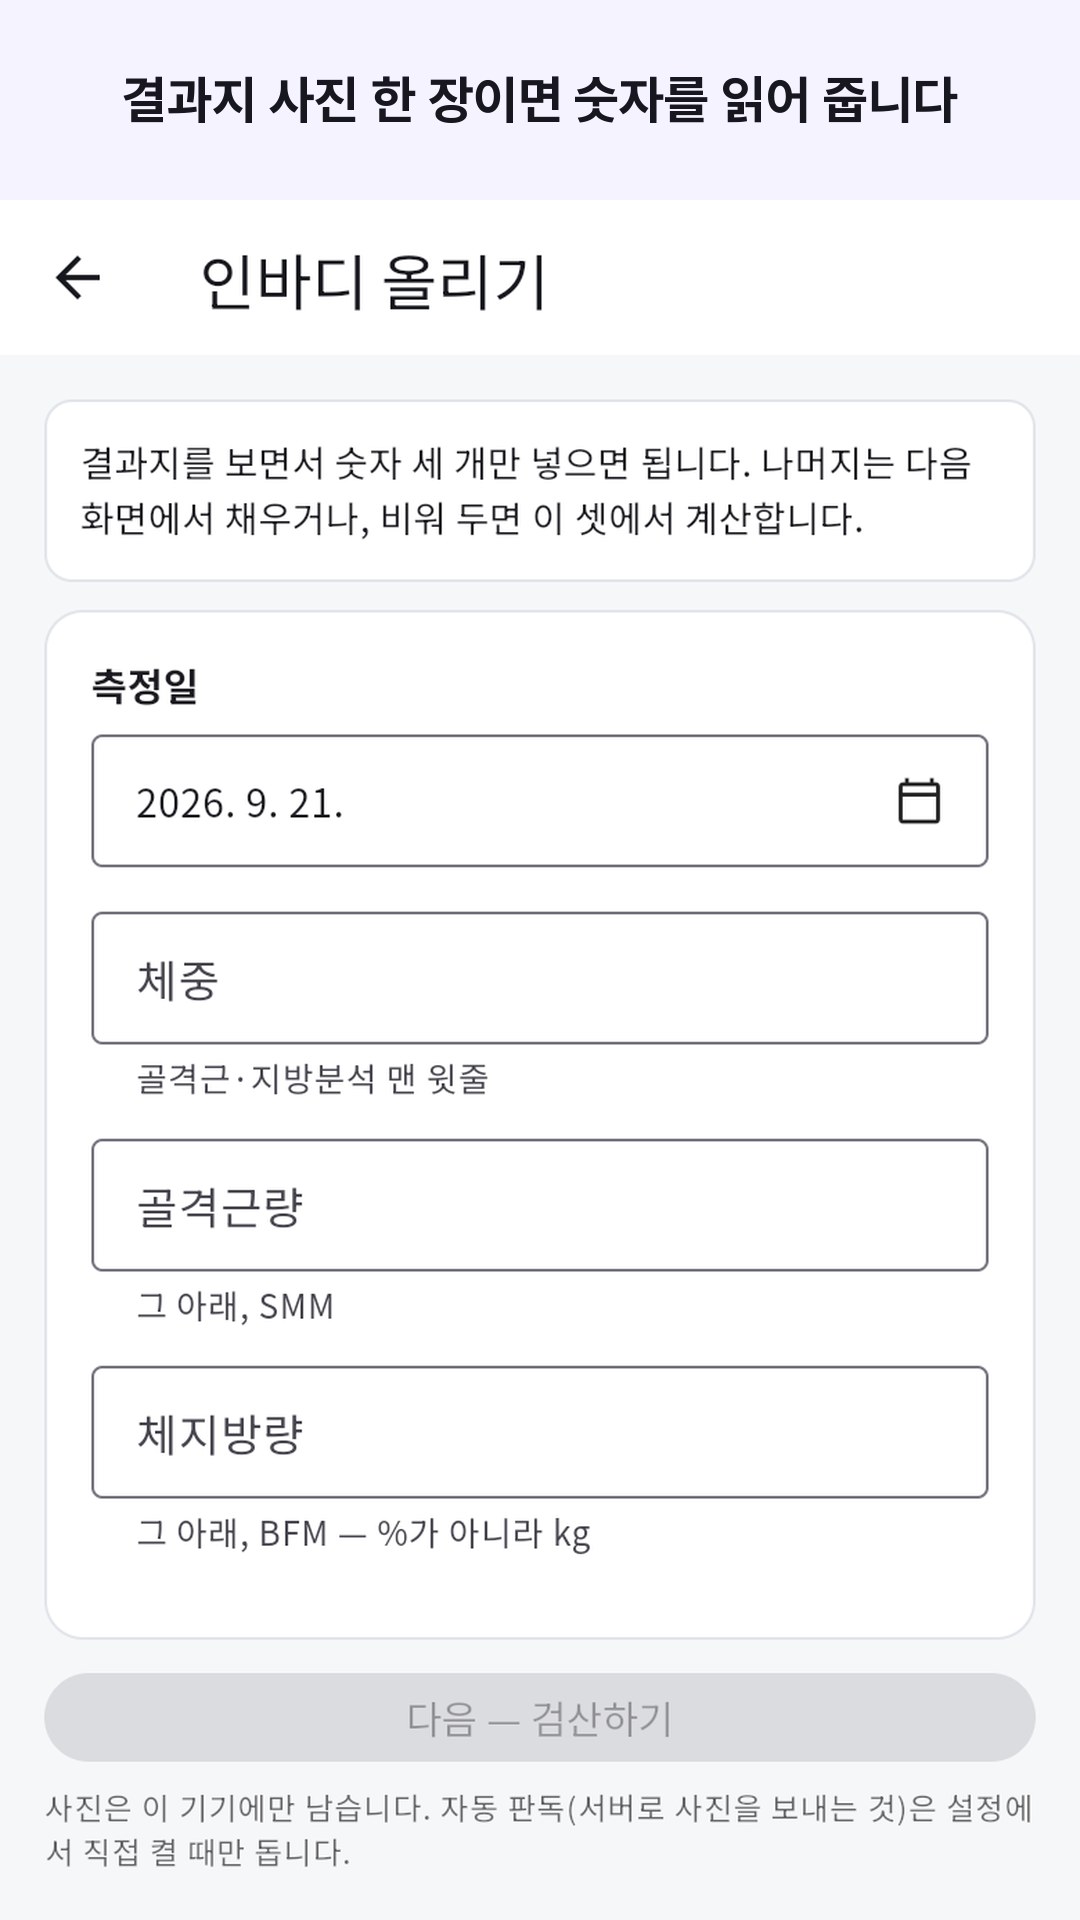
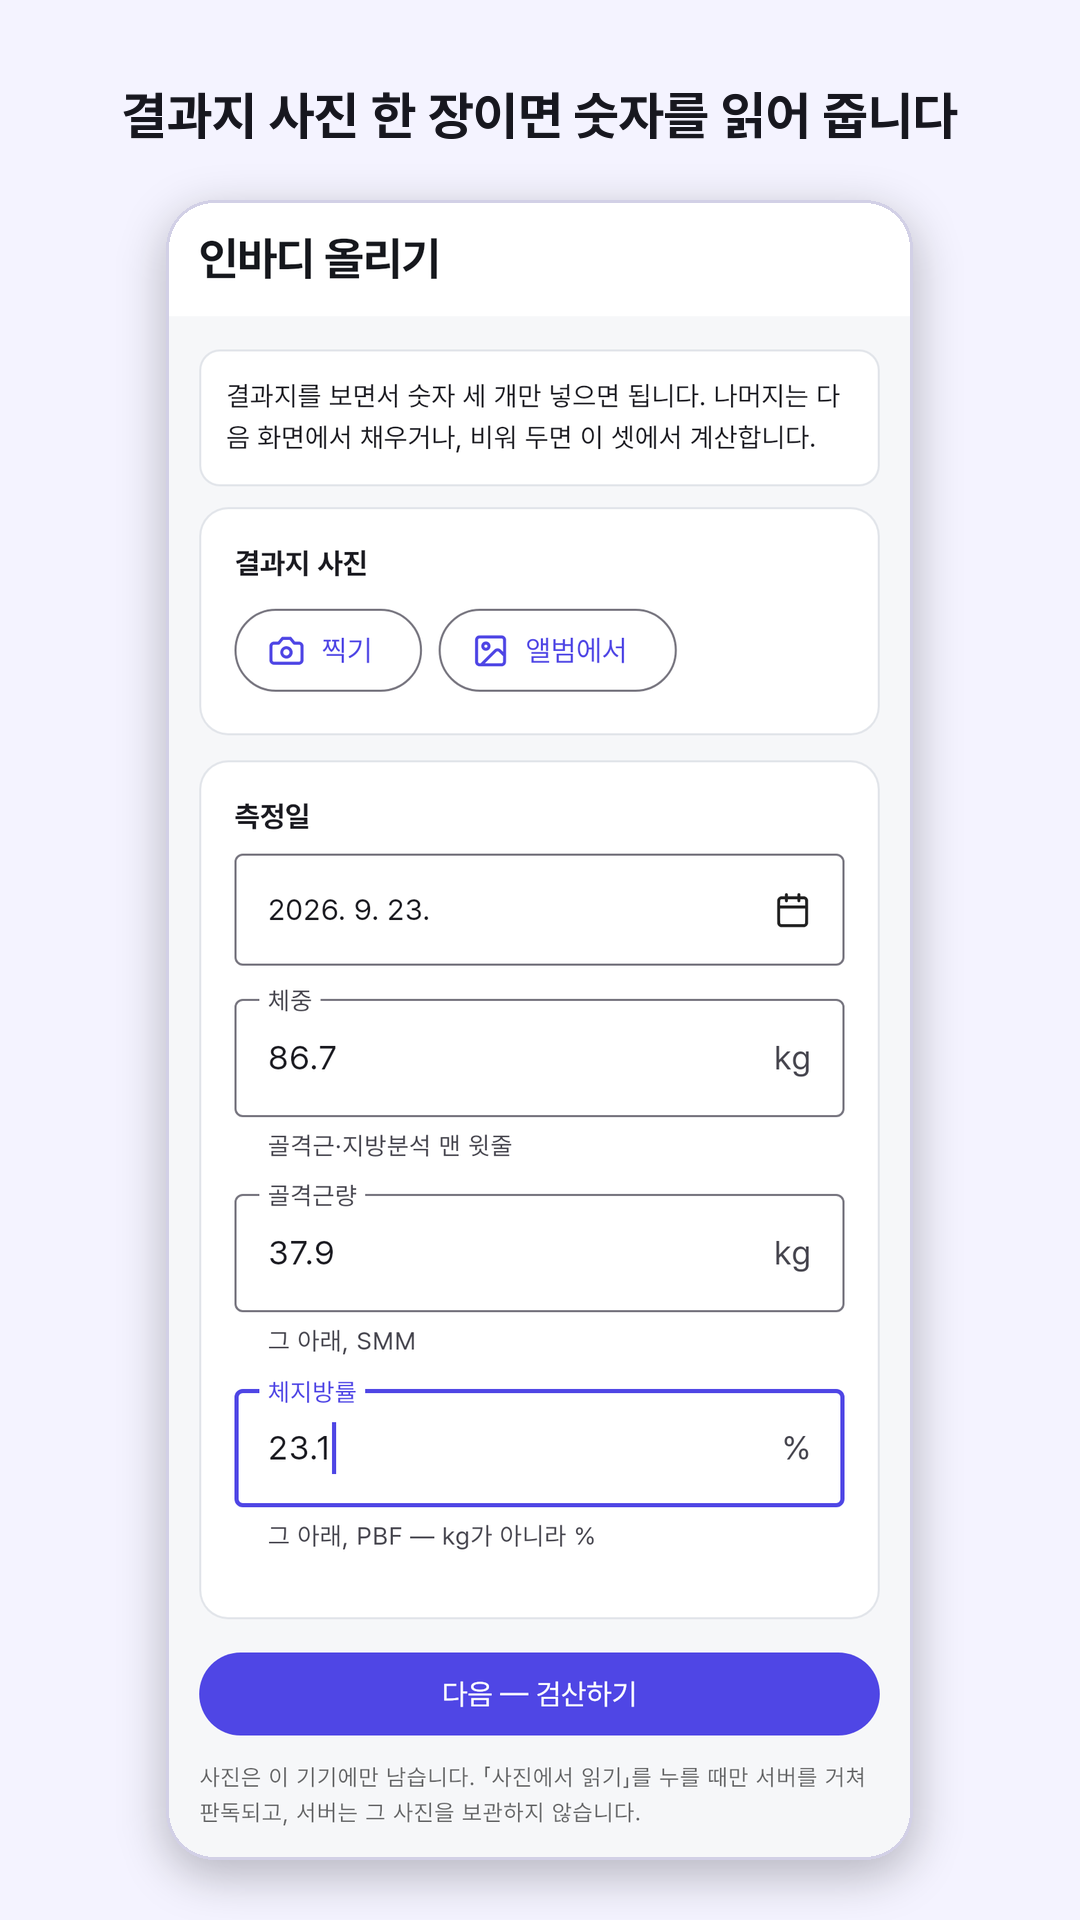
스토어 스크린샷을 앱 위젯으로 직접 그려 뽑기 — 지금 화면 아홉 장
에뮬레이터 없이 flutter test 로 화면을 그려 1080×2400 PNG 로 저장합니다
(app/test_shots/, CI 는 안 돎). 앱이 선언한 글꼴(Pretendard · Lucide)을
FontManifest 에서 그대로 싣고, 시험 환경의 "그림자 = 검은 테두리" 를 끕니다.
가짜 서버 응답으로 장면을 꾸밉니다: 친구 「말랑쫀득이」 운동 28일째 · 식단
26일째, 친구 목록 셋(독촉 종 보이는 친구 포함), 주인 결과지 세 장 + 목표 ·
계획 · 이번 주 운동 · 오늘 식단, 검수 화면의 지난 측정 두 개.

play/make-shots.py 는 이제 화면 전체를 9:16 캔버스에 맞춰 넣습니다(둥근
모서리 · 그림자 · 위 설명 띠). play/그림/스크린샷/ 아홉 장 교체 — 9/21 옛
화면 여덟 장은 버림. 노트북 13번의 스크린샷 단계는 복사만 하면 됨.

Claude-Session: https://claude.ai/code/session_01VUx1QD5iR4br1KmNcSfk2v

diff --git a/app/test_shots/shots_test.dart b/app/test_shots/shots_test.dart
@@ -1,0 +1,295 @@
+/* =============================================================================
+ * test_shots/shots_test.dart — 스토어 스크린샷을 앱 위젯으로 직접 그려 뽑기
+ *
+ *   cd app && flutter test test_shots/            (test/ 와 따로 — CI 는 안 돕니다)
+ *
+ * 에뮬레이터 없이, 지금 코드 그대로, 실제 글꼴(Pretendard · Lucide)로 그립니다.
+ * 가짜 서버 응답으로 상태를 마음대로 꾸밀 수 있어 "28일 스트릭인 친구" 같은
+ * 장면을 만들 수 있습니다. 결과는 build/shots/ 의 png (1080×2400, 폰 한 화면).
+ * 그다음 python3 play/make-shots.py build/shots play/그림/스크린샷.
+ * ========================================================================== */
+// ignore_for_file: invalid_use_of_visible_for_testing_member
+
+import 'dart:convert';
+import 'dart:io';
+import 'dart:ui' as ui;
+
+import 'package:flutter/material.dart';
+import 'package:flutter/rendering.dart';
+import 'package:flutter/services.dart';
+import 'package:flutter_test/flutter_test.dart';
+import 'package:http/http.dart' as http;
+import 'package:http/testing.dart';
+import 'package:mybody/src/api.dart';
+import 'package:mybody/src/app_state.dart';
+import 'package:mybody/src/scope.dart';
+import 'package:mybody/src/screens/goal.dart';
+import 'package:mybody/src/screens/review.dart';
+import 'package:mybody/src/screens/social.dart';
+import 'package:mybody/src/screens/upload.dart';
+import 'package:mybody/src/sheet_history.dart';
+import 'package:mybody/src/shell.dart';
+import 'package:mybody/src/theme.dart';
+import 'package:mybody/src/ui/edge.dart';
+import 'package:mybody_core/mybody_core.dart' as core;
+import 'package:shared_preferences/shared_preferences.dart';
+
+const _out = 'build/shots';
+const _shotKey = Key('shot');
+
+/// 시험 환경은 글꼴을 안 싣습니다 — 전부 네모로 나옵니다. 앱이 선언한 글꼴
+/// (FontManifest.json: Pretendard · Roboto 조각 · 패키지 아이콘 글꼴)을 그대로 싣습니다.
+Future<void> loadAppFonts() async {
+  final manifest = jsonDecode(await rootBundle.loadString('FontManifest.json')) as List;
+  for (final entry in manifest) {
+    final m = (entry as Map).cast<String, dynamic>();
+    final loader = FontLoader(m['family'] as String);
+    for (final f in (m['fonts'] as List)) {
+      loader.addFont(rootBundle.load((f as Map)['asset'] as String));
+    }
+    try {
+      await loader.load();
+    } catch (_) {
+      // MaterialIcons 처럼 시험 묶음에 없는 것은 건너뜁니다.
+    }
+  }
+}
+
+http.Response _json(Object body) => http.Response.bytes(
+    utf8.encode(jsonEncode(body)), 200,
+    headers: {'content-type': 'application/json; charset=utf-8'});
+
+void restore() => debugDisableShadows = true;
+
+Future<void> shot(WidgetTester t, String name) async {
+  final boundary = t.renderObject<RenderRepaintBoundary>(find.byKey(_shotKey));
+  final image = await t.runAsync(() => boundary.toImage(pixelRatio: 3.0));
+  final bytes = await t.runAsync(() => image!.toByteData(format: ui.ImageByteFormat.png));
+  Directory(_out).createSync(recursive: true);
+  File('$_out/$name.png').writeAsBytesSync(bytes!.buffer.asUint8List());
+}
+
+Widget host(AppState app, Api api, Widget child) => RepaintBoundary(
+      key: _shotKey,
+      child: Scope(
+        state: app,
+        api: api,
+        onServerChange: (_) async {},
+        child: MaterialApp(
+          debugShowCheckedModeBanner: false,
+          theme: mbLight(),
+          builder: edgeSafe,
+          home: child,
+        ),
+      ),
+    );
+
+void phone(WidgetTester t) {
+  /* 시험 환경은 그림자를 검은 테두리로 그립니다(골든을 결정적으로 만들려고).
+     스크린샷엔 진짜 그림자가 필요합니다. 시험이 끝날 때는 되돌려야 합니다 —
+     틀이 "디버그 변수를 바꿨다" 고 막습니다. 그래서 각 시험 끝에 restore(). */
+  debugDisableShadows = false;
+  // 흔한 폰: 1080×2400, 배율 3 → 논리 360×800.
+  t.view.physicalSize = const Size(1080, 2400);
+  t.view.devicePixelRatio = 3.0;
+  addTearDown(t.view.reset);
+}
+
+Map<String, Object?> _day(String key, String dow, int n, List<String> plan, List<String> done) => {
+      'key': key, 'dow': dow, 'dayNum': n, 'plan': plan, 'done': done,
+      'kept': plan.isNotEmpty && plan.every(done.contains), 'missed': false,
+    };
+
+/// 28일째 운동을 이어 가는 친구. 이번 주는 5일 계획 중 3일 끝(오늘까지).
+final _mallang = <String, Object?>{
+  'weekStart': '2026-09-21', 'checkedIn': true,
+  'plannedDays': 5, 'keptDays': 3, 'missedDays': 0, 'openDays': 2,
+  'streaks': {'workoutDays': 28, 'foodDays': 26},
+  'week': {'start': '2026-09-21', 'days': [
+    _day('2026-09-21', '월', 21, ['gym'], ['gym']),
+    _day('2026-09-22', '화', 22, ['cardio'], ['cardio']),
+    _day('2026-09-23', '수', 23, ['gym'], ['gym']),
+    _day('2026-09-24', '목', 24, [], []),
+    _day('2026-09-25', '금', 25, ['gym'], []),
+    _day('2026-09-26', '토', 26, ['cardio'], []),
+    _day('2026-09-27', '일', 27, [], []),
+  ]},
+  'today': {'date': '2026-09-23', 'logged': true, 'kcal': 1650, 'p': 118, 'c': 190, 'f': 48,
+            'target': {'intakeKcal': 2200, 'proteinG': 150, 'carbG': 240, 'fatG': 65}},
+  'weightKg': 63.2, 'dWeightKg': -0.7, 'smmKg': 27.1, 'dSmmKg': 0.3, 'bfmKg': 15.2, 'dBfmKg': -0.9,
+  'progressPct': 42,
+};
+
+
+/// 화면이 계속 움직이면(진행 표시 등) pumpAndSettle 이 안 끝납니다 — 그때는 잠깐 기다리고 찍습니다.
+Future<void> settle(WidgetTester t) async {
+  try {
+    await t.pumpAndSettle(const Duration(milliseconds: 100), EnginePhase.sendSemanticsUpdate,
+        const Duration(seconds: 5));
+  } catch (_) {
+    await t.pump(const Duration(seconds: 1));
+  }
+}
+
+String _k(DateTime d) => '${d.year}-${d.month.toString().padLeft(2, '0')}-${d.day.toString().padLeft(2, '0')}';
+
+/// 주인의 실제 인바디 세 장(6/30 · 8/31 · 9/19) + 목표 · 계획 · 이번 주 운동 · 오늘 식단.
+Future<AppState> rich() async {
+  SharedPreferences.setMockInitialValues({});
+  final app = await AppState.boot();
+  app.store.seed();
+  final scans = app.store.sortedScans();
+  final latest = scans.last;
+  final profile = ((app.state['profile'] as Map).cast<String, Object?>());
+  // 지금 골격근/제지방 비율(0.568)에 맞춘 목표 — 세 값이 서로 맞고, 중 강도로 반년 안.
+  final goal = <String, Object?>{'weightKg': 82.9, 'smmKg': 38.6, 'bfmKg': 15.0};
+  final cmp = core.compareLevels(latest, profile, goal, '${latest['measuredAt']}'.substring(0, 10), null, null);
+  final plan = core.buildPlan(cmp, 'mid', latest, profile);
+  app.store.setGoal(goal);
+  if (plan != null) app.store.setPlan(plan);
+
+  final now = DateTime.now();
+  final mon = DateTime(now.year, now.month, now.day - (now.weekday - 1));
+  for (final off in [0, 2, 4, 5]) {
+    app.store.setSchedulePlan(_k(mon.add(Duration(days: off))), off == 5 ? 'cardio' : 'gym', true);
+  }
+  for (final off in [0, 2]) {
+    if (mon.add(Duration(days: off)).isBefore(now.add(const Duration(days: 1)))) {
+      app.store.setSchedulePlan(_k(mon.add(Duration(days: off))), 'gym', true);
+      app.store.setScheduleDone(_k(mon.add(Duration(days: off))), 'gym', true);
+    }
+  }
+  final today = app.store.dayKey();
+  Map<String, Object?> item(String n, String u, num kcal, num p, num c, num f) =>
+      {'name': n, 'unit': u, 'g': 100, 'mult': 1, 'kcal': kcal, 'p': p, 'c': c, 'f': f};
+  app.store.addFoodLog({'date': today, 'meal': '아침', 'source': 'manual', 'items': [
+    item('오트밀', '1그릇', 310, 11, 54, 6), item('삶은 계란', '2개', 155, 13, 1, 11)]});
+  app.store.addFoodLog({'date': today, 'meal': '점심', 'source': 'manual', 'items': [
+    item('닭가슴살', '1팩', 165, 31, 0, 3.6), item('현미밥', '1공기', 330, 7, 72, 2), item('김치', '1접시', 20, 1, 3, 0)]});
+  app.store.addFoodLog({'date': today, 'meal': '간식', 'source': 'manual', 'items': [
+    item('그릭요거트', '1개', 120, 10, 6, 6)]});
+  return app;
+}
+
+Map<String, Object?> _snap(int workout, int food, bool checkedIn, int planned, int kept,
+    double w, double smm, double bfm) => {
+  ..._mallang,
+  'checkedIn': checkedIn, 'plannedDays': planned, 'keptDays': kept,
+  'streaks': {'workoutDays': workout, 'foodDays': food},
+  'weightKg': w, 'dWeightKg': -0.3, 'smmKg': smm, 'dSmmKg': 0.1, 'bfmKg': bfm, 'dBfmKg': -0.4,
+};
+
+MockClient friendsClient() => MockClient((req) async {
+  final p = req.url.path;
+  if (p.endsWith('/me')) {
+    return _json({'ok': true, 'user': {'id': 'me', 'handle': 'me', 'displayName': '나', 'inviteCode': 'MB-7Q2K'}});
+  }
+  if (p.endsWith('/friends')) {
+    return _json({'ok': true, 'friends': {
+      'accepted': [
+        {'id': 'f1', 'displayName': '말랑쫀득이', 'handle': 'mallang'},
+        {'id': 'f2', 'displayName': '곰돌이', 'handle': 'gomdol'},
+        {'id': 'f3', 'displayName': '달리는감자', 'handle': 'potato'},
+      ], 'incoming': [], 'outgoing': [],
+    }});
+  }
+  if (p.contains('/snapshots/f1')) return _json({'ok': true, 'rows': [_mallang]});
+  if (p.contains('/snapshots/f2')) return _json({'ok': true, 'rows': [_snap(5, 3, false, 4, 1, 78.4, 33.0, 18.1)]});
+  if (p.contains('/snapshots/f3')) return _json({'ok': true, 'rows': [_snap(12, 12, true, 3, 3, 55.8, 24.2, 12.4)]});
+  if (p.endsWith('/pokes')) return _json({'ok': true, 'pokes': []});
+  if (p.contains('/share/')) {
+    return _json({'ok': true, 'share': {
+      'streak': true, 'schedule': true, 'diet': true, 'weightTrend': true,
+      'smmTrend': true, 'bfmTrend': true, 'absolute': false, 'planProgress': true,
+    }});
+  }
+  return http.Response('{"ok":false}', 404);
+});
+
+Future<Api> signedIn(MockClient client) async {
+  final api = Api(baseUrl: 'https://x.test', client: client);
+  await api.setToken('tok');
+  return api;
+}
+
+void main() {
+  setUpAll(() async {
+    await loadAppFonts();
+  });
+
+  testWidgets('친구 상세 — 말랑쫀득이, 28일 스트릭', (t) async {
+    phone(t);
+    SharedPreferences.setMockInitialValues({});
+    final app = await AppState.boot();
+    final api = await signedIn(friendsClient());
+    await t.pumpWidget(host(app, api, const FriendDetailScreen(
+        person: {'id': 'f1', 'displayName': '말랑쫀득이', 'handle': 'mallang'})));
+    await settle(t);
+    expect(find.byType(ErrorWidget), findsNothing);
+    expect(find.text('28일째'), findsOneWidget);
+    await shot(t, '09-friend');
+    restore();
+  });
+
+  testWidgets('탭 다섯 — 홈 · 식단 · 플랜 · 추이 · 친구', (t) async {
+    phone(t);
+    final app = await rich();
+    final api = await signedIn(friendsClient());
+    await t.pumpWidget(host(app, api, const Shell()));
+    await settle(t);
+    expect(find.byType(ErrorWidget), findsNothing);
+    await shot(t, '01-home');
+    for (final (label, name) in [('식단', '06-food'), ('플랜', '05-plan'), ('추이', '07-progress'), ('친구', '08-social')]) {
+      await t.tap(find.text(label).last);
+      await settle(t);
+      expect(find.byType(ErrorWidget), findsNothing, reason: label);
+      await shot(t, name);
+    }
+    restore();
+  });
+
+  testWidgets('목표', (t) async {
+    phone(t);
+    final app = await rich();
+    final api = await signedIn(friendsClient());
+    await t.pumpWidget(host(app, api, const GoalScreen()));
+    await settle(t);
+    await shot(t, '04-goal');
+    restore();
+  });
+
+  testWidgets('검수 — 결과지 값과 아래 그래프의 지난 측정', (t) async {
+    phone(t);
+    SharedPreferences.setMockInitialValues({});
+    final app = await AppState.boot();
+    app.store.set({'profile': core.kSeedProfile, 'onboarded': true});
+    final api = await signedIn(friendsClient());
+    final history = sheetHistory([
+      {'measuredAt': '2026-06-30T03:00:00.000Z', 'weightKg': 89.0, 'smmKg': 36.2, 'pbfPct': 28.4},
+      {'measuredAt': '2026-08-31T03:00:00.000Z', 'weightKg': 86.9, 'smmKg': 37.4, 'pbfPct': 24.2},
+    ], currentAt: '2026-09-19T02:09:00.000Z', scans: const []);
+    await t.pumpWidget(host(app, api, ReviewScreen(draft: const {
+      'id': 'scan-x', 'measuredAt': '2026-09-19T02:09:00.000Z', 'source': 'ocr',
+      'weightKg': 86.7, 'smmKg': 37.9, 'bfmKg': 20.0, 'pbfPct': 23.1, 'ffmKg': 66.7,
+      'bmi': 24.8, 'tbwL': 48.7, 'proteinKg': 13.3, 'mineralKg': 4.7, 'bmrKcal': 1810,
+      'visceralFatLevel': 8, 'whr': 0.94, 'inbodyScore': 73,
+    }, history: history)));
+    await settle(t);
+    await shot(t, '03-review');
+    restore();
+  });
+
+  testWidgets('인바디 올리기 — 세 칸', (t) async {
+    phone(t);
+    final app = await rich();
+    final api = await signedIn(friendsClient());
+    await t.pumpWidget(host(app, api, const UploadScreen()));
+    await settle(t);
+    await t.enterText(find.widgetWithText(TextField, '체중'), '86.7');
+    await t.enterText(find.widgetWithText(TextField, '골격근량'), '37.9');
+    await t.enterText(find.widgetWithText(TextField, '체지방률'), '23.1');
+    await settle(t);
+    await shot(t, '02-upload');
+    restore();
+  });
+}

diff --git a/play/make-shots.py b/play/make-shots.py
@@ -5,7 +5,7 @@ play/make-shots.py — 폰 화면 캡처를 플레이 스토어 규격(1080×192
   python3 play/make-shots.py 원본폴더 [출력폴더]
 
 원본은 어떤 크기든 됩니다(에뮬레이터 1080×2400, 웹 780×1688 …). 각 장을
-9:16 캔버스에 **위를 맞춰** 넣고 — 앱은 위쪽이 중요합니다 — 남는 아래는
+9:16 캔버스 안에 **통째로 맞춰** 넣고(둥근 모서리 · 그림자), 남는 자리는
 캔버스 색으로 채웁니다. 파일 이름이 CAPTIONS 에 있으면 위에 한 줄 설명을
 얹습니다(글꼴은 앱이 쓰는 Pretendard).
 
@@ -33,7 +33,7 @@ CAPTIONS = [
     ('food',     '오늘 먹은 것과 남은 탄단지'),
     ('progress', '체중 · 골격근 · 체지방 추이'),
     ('social',   '친구와 서로 응원합니다'),
-    ('friend',   '친구의 이번 주 — 켠 것만 보입니다'),
+    ('friend',   '친구의 스트릭과 이번 주 — 켠 것만 보입니다'),
 ]
 
 def caption_for(name):
@@ -46,21 +46,36 @@ def caption_for(name):
 def convert(src, dst):
     im = Image.open(src).convert('RGB')
     cap = caption_for(os.path.splitext(os.path.basename(src))[0])
-    top = BAND if cap else 0
-    box_h = H - top
-    # 폭을 맞추고, 높이가 남으면 아래를 비우고, 넘치면 아래를 자릅니다.
-    scale = W / im.width
-    new_h = int(im.height * scale)
-    im = im.resize((W, new_h), Image.LANCZOS)
+    top = BAND if cap else 60
+    # 화면 **전체**를 캔버스 안에 맞춥니다(위 띠와 아래 여백을 뺀 자리). 폰 화면은
+    # 9:16 보다 길쭉해서(1080×2400) 그대로 넣으면 아래가 잘립니다 — 잘라 내는 대신
+    # 조금 줄여 통째로 보여 주고, 둥근 모서리와 옅은 그림자로 폰처럼 세웁니다.
+    box_w, box_h = W - 2 * 60, H - top - 60
+    scale = min(box_w / im.width, box_h / im.height)
+    nw, nh = int(im.width * scale), int(im.height * scale)
+    im = im.resize((nw, nh), Image.LANCZOS)
     canvas = Image.new('RGB', (W, H), BG)
-    if new_h > box_h:
-        im = im.crop((0, 0, W, box_h))
-    canvas.paste(im, (0, top))
+    x, y = (W - nw) // 2, top + (box_h - nh) // 2
+    radius = 48
+    # 그림자
+    from PIL import ImageFilter
+    shadow = Image.new('RGBA', (W, H), (0, 0, 0, 0))
+    sd = ImageDraw.Draw(shadow)
+    sd.rounded_rectangle([x, y + 14, x + nw, y + nh + 14], radius=radius, fill=(23, 23, 31, 70))
+    shadow = shadow.filter(ImageFilter.GaussianBlur(22))
+    canvas.paste(shadow, (0, 0), shadow)
+    # 둥근 모서리
+    mask = Image.new('L', (nw, nh), 0)
+    ImageDraw.Draw(mask).rounded_rectangle([0, 0, nw - 1, nh - 1], radius=radius, fill=255)
+    canvas.paste(im, (x, y), mask)
+    # 얇은 테두리
+    ImageDraw.Draw(canvas).rounded_rectangle([x, y, x + nw - 1, y + nh - 1], radius=radius,
+                                             outline=(210, 208, 230), width=3)
     if cap:
         d = ImageDraw.Draw(canvas)
         f = ImageFont.truetype(BOLD, 52)
         tw = d.textlength(cap, font=f)
-        d.text(((W - tw) / 2, (BAND - 52) / 2 - 6), cap, font=f, fill=INK)
+        d.text(((W - tw) / 2, (BAND - 52) / 2 + 10), cap, font=f, fill=INK)
     canvas.save(dst, optimize=True)
 
 def main():

diff --git a/docs/LOCAL-TASKS.md b/docs/LOCAL-TASKS.md
@@ -326,12 +326,9 @@ v0.2.0 이 나갔습니다: https://github.com/iacobuschoi/Mybody/releases/tag/v
    `node tools/reset-password.js playreview` 로 비밀번호 정함 → 폴더에 `계정.txt` 로 저장
    (형식은 `play/계정.txt.예시`). emutest1 과 친구 맺어 두면 심사자가 친구 기능도 볼 수 있음.
    **저장소에는 절대 넣지 말 것** (.gitignore 에 있음).
-5. **스크린샷 새로 찍기** — 지금 `그림/스크린샷/` 은 9/21 옛 화면입니다. 에뮬레이터(기록 있는 계정)에서
-   홈 · 인바디 올리기(사진 붙인 상태) · 검수 · 목표 · 플랜 · 식단 · 추이 · 친구 여덟 화면을
-   `adb exec-out screencap -p > 원본\01-home.png` 식으로(파일 이름에 home/upload/review/goal/plan/
-   food/progress/social 이 들어가야 설명 띠가 붙음) → `python play\make-shots.py 원본 <폴더>\그림\스크린샷`
-   (Python + `pip install pillow` 필요; 없으면 설치, 정 안 되면 원본을 그대로 두고 보고에 적기) →
-   나온 8장을 눈으로 확인(위 잘림·글자 겹침 없는지). 마음에 안 드는 장은 빼도 됨(2장 이상이면 됨).
+5. **스크린샷** — 이미 지금 화면으로 새로 만들어 뒀습니다(`play/그림/스크린샷/` 9장, 앱 위젯을
+   실제 글꼴로 그린 것 — `cd app && flutter test test_shots/` 로 다시 뽑을 수 있음). 에뮬레이터로
+   다시 찍을 필요 없음. 폴더에 복사만.
 6. **열쇠 확인** — `keytool -list -v -keystore %USERPROFILE%\mybody-signing-key\mybody.jks -alias mybody`
    의 SHA256 이 `06d945a3…83de11` 인지. `pepk.cmd` 는 pepk.jar 없이 못 돌리니 파일 검사만
    (더블클릭하면 "pepk.jar 가 없습니다" 로 멈추는지).
